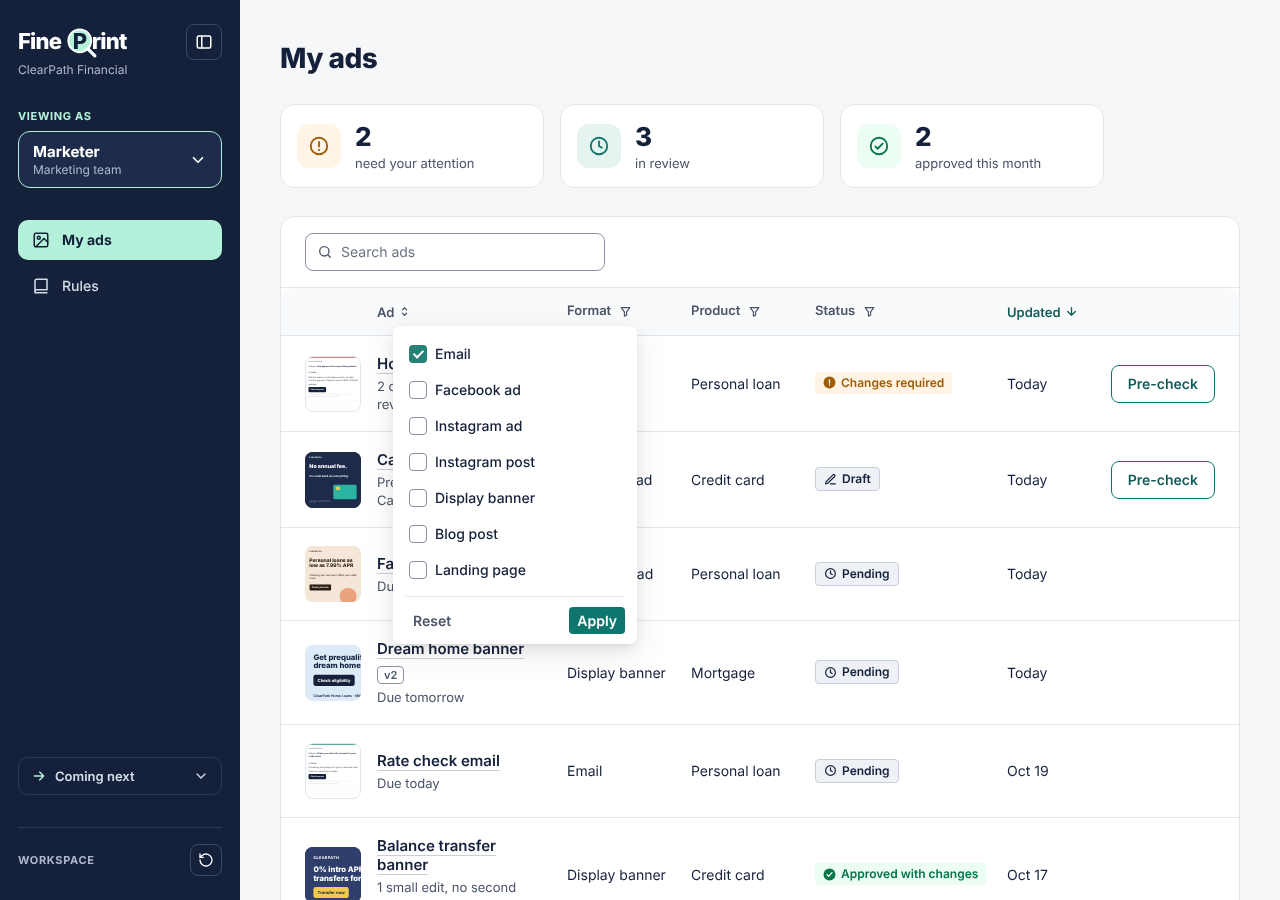
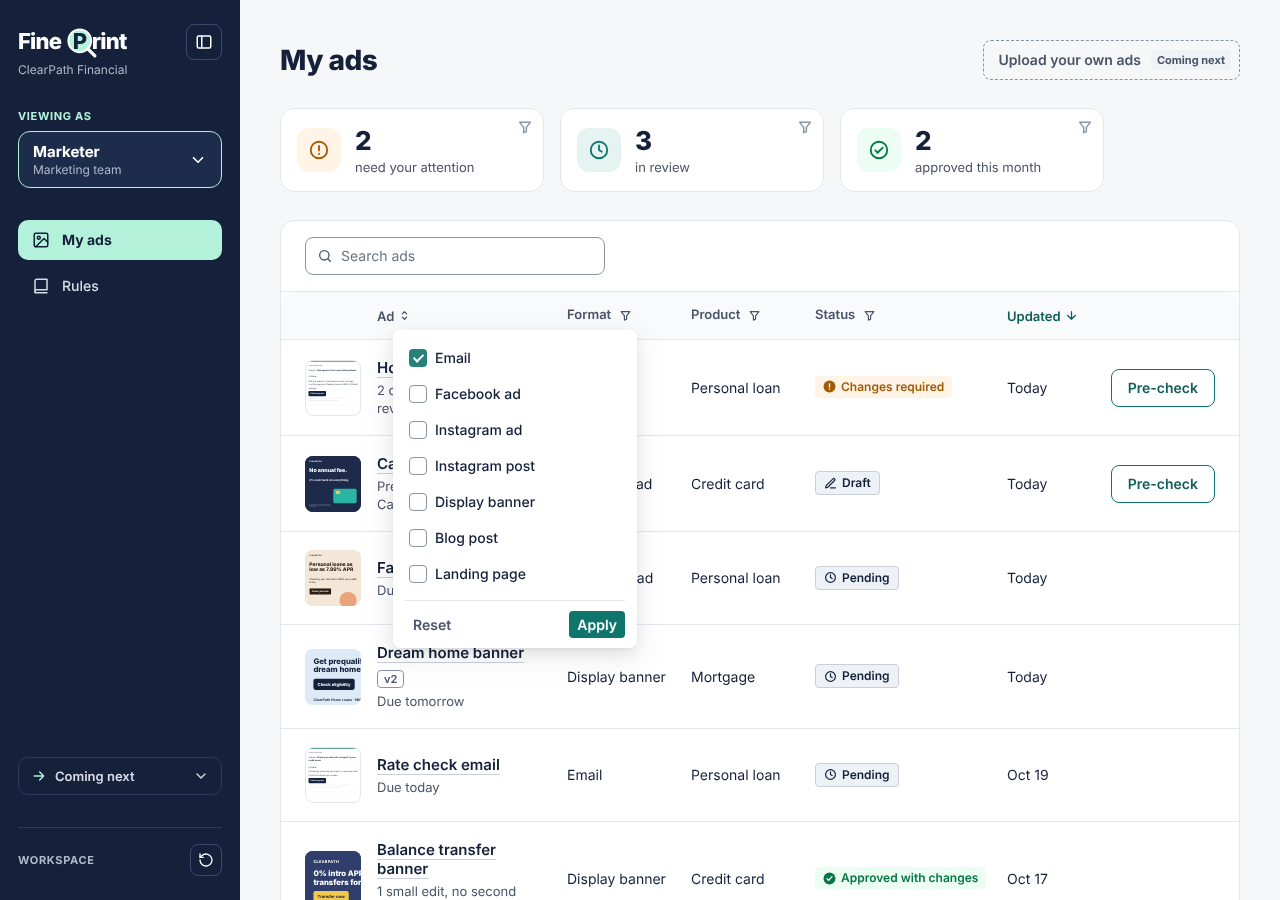
Coming next takes votes; Insights header; quieter active stat cards
- Each coming-next feature, in the sidebar and as a dashed "Coming
  next" button where it would live (My ads, Rules, History), opens a
  card: what it would do, I'd use this, and how many want it. One vote
  per feature per browser (anonymous cookie, deduped in the database);
  Reset keeps the votes.
- Insights: Open the Queue on the title line, bigger card titles, and
  time saved as a plain number of hours.
- Active stat cards no longer add a line (the table stays put); the
  funnel is a little bigger.

Claude-Session: https://claude.ai/code/session_01GajTyz92bBm6dN9cgoMqN2

diff --git a/src/components/ComingNext.tsx b/src/components/ComingNext.tsx
@@ -1,0 +1,106 @@
+import { Popover } from 'antd'
+import { useState, type ReactNode } from 'react'
+import { api } from '../lib/api'
+import { useApi } from '../lib/useApi'
+import { Icon } from './Icon'
+
+export type ComingFeature = 'doc-rules' | 'upload' | 'search'
+
+/** The roadmap: what each feature would do, in a line. */
+export const COMING_NEXT: Array<{ id: ComingFeature; title: string; what: string }> = [
+  {
+    id: 'doc-rules',
+    title: 'Turn compliance documents into rules',
+    what: 'Upload a policy or a regulator’s guidance, and Fine Print drafts the rules for a reviewer to approve.',
+  },
+  {
+    id: 'upload',
+    title: 'Upload your own ads',
+    what: 'Drop in an image or a PDF. Fine Print reads the words and checks them like any other ad.',
+  },
+  {
+    id: 'search',
+    title: 'Search past decisions',
+    what: 'Find how similar ads were decided before, and why, before you decide this one.',
+  },
+]
+
+interface VoteState {
+  votes: Record<ComingFeature, number>
+  voted: ComingFeature[]
+}
+
+function people(n: number): string {
+  return n === 1 ? '1 person wants this' : `${n} people want this`
+}
+
+/** What a coming-next feature would do, and a vote for it. Opened from the sidebar or where it would live. */
+function VoteCard({ feature }: { feature: ComingFeature }) {
+  const item = COMING_NEXT.find((f) => f.id === feature)!
+  const { data } = useApi<VoteState>('/api/votes')
+  const [mine, setMine] = useState<VoteState | null>(null)
+  const [saving, setSaving] = useState(false)
+  // The server knows this browser's votes (by an anonymous cookie), so a vote counts once.
+  const state = mine ?? data
+  const voted = Boolean(state?.voted.includes(feature))
+  const votes = state ? state.votes[feature] : null
+
+  const vote = async () => {
+    setSaving(true)
+    try {
+      setMine(await api.post<VoteState>('/api/votes', { feature }))
+    } finally {
+      setSaving(false)
+    }
+  }
+
+  return (
+    <div style={{ width: 280, display: 'flex', flexDirection: 'column', gap: 10 }}>
+      <span style={{ fontSize: 12, lineHeight: '16px', fontWeight: 700, letterSpacing: '0.04em', color: '#4A5468' }}>COMING NEXT</span>
+      <strong style={{ fontSize: 15, lineHeight: '22px' }}>{item.title}</strong>
+      <p style={{ margin: 0, fontSize: 14, lineHeight: '20px', color: '#4A5468' }}>{item.what}</p>
+      <div style={{ display: 'flex', alignItems: 'center', justifyContent: 'space-between', gap: 10, marginTop: 4 }}>
+        {voted ? (
+          <span style={{ display: 'inline-flex', alignItems: 'center', gap: 6, fontSize: 13, fontWeight: 600, color: '#067647' }}>
+            <Icon name="check" size={14} strokeWidth={2.5} />
+            Thanks, noted
+          </span>
+        ) : (
+          <button type="button" className="fp-copy-button" onClick={vote} disabled={saving}>
+            I’d use this
+          </button>
+        )}
+        {votes !== null && <span aria-live="polite" style={{ fontSize: 13, color: '#4A5468' }}>{people(votes)}</span>}
+      </div>
+    </div>
+  )
+}
+
+export function ComingNextPopover({
+  feature,
+  placement = 'bottomRight',
+  children,
+}: {
+  feature: ComingFeature
+  placement?: 'bottomRight' | 'right' | 'rightBottom'
+  children: ReactNode
+}) {
+  return (
+    <Popover trigger="click" placement={placement} content={<VoteCard feature={feature} />} destroyOnHidden>
+      {children}
+    </Popover>
+  )
+}
+
+/** Where the feature would live: a quiet button, clearly marked as coming next. */
+export function ComingNextButton({ feature }: { feature: ComingFeature }) {
+  const item = COMING_NEXT.find((f) => f.id === feature)!
+  return (
+    <ComingNextPopover feature={feature}>
+      <button type="button" className="fp-coming-door" aria-haspopup="dialog">
+        {item.title}
+        <span className="fp-coming-tag">Coming next</span>
+      </button>
+    </ComingNextPopover>
+  )
+}

diff --git a/src/pages/InsightsPage.tsx b/src/pages/InsightsPage.tsx
@@ -18,7 +18,6 @@ interface Metric {
 }
 
 interface Insights {
-  hero: { line: string } | null
   metrics: Metric[]
   issues: Array<{ rule_id: string; name: string; share: number }>
   affiliates: Array<{ source: string; score: number; ads: number; status: 'good' | 'watch' | 'at_risk' }>
@@ -57,7 +56,7 @@ function Sparkline({ series, label }: { series: Array<number | null>; label: str
 function MetricCard({ metric }: { metric: Metric }) {
   return (
     <section className="fp-card" aria-label={metric.label} style={{ padding: '24px 22px 22px', display: 'flex', flexDirection: 'column', gap: 8, minWidth: 0 }}>
-      <h2 style={{ margin: 0, fontSize: 13, lineHeight: '18px', fontWeight: 600, color: '#4A5468' }}>{metric.label}</h2>
+      <h2 style={{ margin: 0, fontSize: 17, lineHeight: '24px', fontWeight: 700 }}>{metric.label}</h2>
       <div style={{ display: 'flex', alignItems: 'center', flexWrap: 'wrap', gap: 10 }}>
         <span data-insight={metric.key} style={{ fontSize: 40, lineHeight: '48px', fontWeight: 800, letterSpacing: '-0.02em' }}>
           {metric.display}
@@ -72,42 +71,20 @@ function MetricCard({ metric }: { metric: Metric }) {
   )
 }
 
-/** One line of the throughput story, and the way into today's work. */
-function Hero({ hero, pending }: { hero: NonNullable<Insights['hero']>; pending: number | null }) {
-  return (
-    <section
-      aria-label="This week"
-      style={{
-        background: '#E6F4F1',
-        borderLeft: '4px solid #0F766E',
-        borderRadius: 12,
-        padding: '16px 20px 16px 24px',
-        display: 'flex',
-        flexWrap: 'wrap',
-        alignItems: 'center',
-        justifyContent: 'space-between',
-        gap: 16,
-      }}
-    >
-      <p data-insight="hero" style={{ margin: 0, fontSize: 18, lineHeight: '26px', fontWeight: 700 }}>
-        {hero.line}
-      </p>
-      <Link to="/queue" className="fp-hero-button">
-        Open the Queue{pending !== null ? ` · ${pending}` : ''}
-        <Icon name="arrowRight" size={16} strokeWidth={2.2} />
-      </Link>
-    </section>
-  )
-}
-
 export function InsightsPage() {
   const { data, error } = useApi<Insights>('/api/insights')
   const { pending } = useWorkspace()
   return (
     <div style={{ display: 'flex', flexDirection: 'column', gap: 28 }}>
-      <div style={{ display: 'flex', flexDirection: 'column', gap: 6 }}>
-        <h1 className="fp-page-title">Insights</h1>
-        <span style={{ fontSize: 14, lineHeight: '20px', color: '#4A5468' }}>Last 8 weeks</span>
+      <div style={{ display: 'flex', flexWrap: 'wrap', alignItems: 'center', justifyContent: 'space-between', gap: 16 }}>
+        <div style={{ display: 'flex', flexDirection: 'column', gap: 6 }}>
+          <h1 className="fp-page-title">Insights</h1>
+          <span style={{ fontSize: 14, lineHeight: '20px', color: '#4A5468' }}>Last 8 weeks</span>
+        </div>
+        <Link to="/queue" className="fp-hero-button">
+          Open the Queue{pending !== null ? ` · ${pending}` : ''}
+          <Icon name="arrowRight" size={16} strokeWidth={2.2} />
+        </Link>
       </div>
       {error ? (
         <p role="alert" style={{ margin: 0, fontSize: 15, color: '#4A5468' }}>
@@ -117,7 +94,6 @@ export function InsightsPage() {
         <Skeleton active paragraph={{ rows: 8 }} />
       ) : (
         <>
-          {data.hero && <Hero hero={data.hero} pending={pending} />}
           <div className="fp-insight-metrics">
             {data.metrics.map((metric) => (
               <MetricCard key={metric.key} metric={metric} />

diff --git a/e2e/coming-next.spec.ts b/e2e/coming-next.spec.ts
@@ -1,0 +1,33 @@
+import { expect, test } from '@playwright/test'
+import { setRole } from './helpers.ts'
+
+test.use({ viewport: { width: 1280, height: 900 } })
+
+test('coming-next features take a vote, once per browser, where they would live and in the sidebar', async ({ page }) => {
+  await setRole(page, 'marketer')
+  await page.goto('/my-ads')
+  await page.getByRole('button', { name: /^Upload your own ads/ }).click()
+  const card = page.locator('.ant-popover')
+  await expect(card.getByText('Drop in an image or a PDF.', { exact: false })).toBeVisible()
+  const before = Number((await card.getByText(/wants? this$/).innerText()).match(/\d+/)![0])
+  await card.getByRole('button', { name: 'I’d use this' }).click()
+  await expect(card.getByText('Thanks, noted')).toBeVisible()
+  await expect(card.getByText(/wants? this$/)).toHaveText(before + 1 === 1 ? '1 person wants this' : `${before + 1} people want this`)
+
+  // The same browser can't vote twice: after a reload it's still noted, from the server.
+  await page.reload()
+  await page.getByRole('button', { name: /^Upload your own ads/ }).click()
+  await expect(page.locator('.ant-popover').getByText('Thanks, noted')).toBeVisible()
+  await expect(page.locator('.ant-popover').getByRole('button', { name: 'I’d use this' })).toHaveCount(0)
+  await page.keyboard.press('Escape')
+
+  // The sidebar's roadmap opens the same card, and Rules and History have their own.
+  await page.getByRole('button', { name: 'Coming next', exact: true }).click()
+  await page.locator('#coming-next-list').getByRole('button', { name: 'Search past decisions' }).click()
+  await expect(page.locator('.ant-popover').getByText('Find how similar ads were decided before', { exact: false })).toBeVisible()
+  await page.goto('/rules')
+  await expect(page.getByRole('button', { name: /^Turn compliance documents into rules/ })).toBeVisible()
+  await setRole(page, 'reviewer')
+  await page.goto('/history')
+  await expect(page.getByRole('button', { name: /^Search past decisions/ })).toBeVisible()
+})

diff --git a/src/app/Sidebar.tsx b/src/app/Sidebar.tsx
@@ -1,6 +1,7 @@
 import { App as AntApp, Dropdown, Popconfirm, Tooltip } from 'antd'
 import { useState, type CSSProperties } from 'react'
 import { NavLink, useNavigate } from 'react-router-dom'
+import { COMING_NEXT, ComingNextPopover } from '../components/ComingNext'
 import { Icon, type IconName } from '../components/Icon'
 import { Logo } from '../components/Logo'
 import { api } from '../lib/api'
@@ -8,7 +9,6 @@ import { ROLE_LABEL } from '../lib/labels'
 import type { Role } from '../lib/types'
 import { useWorkspace } from './workspace'
 
-const COMING_NEXT = ['Turn compliance documents into rules', 'Upload your own ads', 'Search past decisions']
 
 interface NavItem {
   to: string
@@ -184,7 +184,13 @@ export function Sidebar({ collapsed, onToggle }: { collapsed: boolean; onToggle:
           {comingOpen && (
             <ul id="coming-next-list">
               {COMING_NEXT.map((item) => (
-                <li key={item}>{item}</li>
+                <li key={item.id}>
+                  <ComingNextPopover feature={item.id} placement="right">
+                    <button type="button" aria-haspopup="dialog">
+                      {item.title}
+                    </button>
+                  </ComingNextPopover>
+                </li>
               ))}
             </ul>
           )}

diff --git a/src/components/StatCards.tsx b/src/components/StatCards.tsx
@@ -88,7 +88,6 @@ export function StatCards({ stats, actions = {} }: { stats: Stat[]; actions?: Re
                 {stat.trend && <TrendBadge trend={stat.trend} inert={Boolean(action)} />}
               </span>{' '}
               <span style={{ fontSize: 13, lineHeight: '16px', color: '#4A5468' }}>{stat.label}</span>
-              {active && <span style={{ fontSize: 12, lineHeight: '16px', fontWeight: 600, color: '#115E59' }}>Showing only these</span>}
               {action && (
                 // The card's name is what it shows, plus what the badge and a click mean.
                 <span className="fp-visually-hidden">
@@ -100,7 +99,7 @@ export function StatCards({ stats, actions = {} }: { stats: Stat[]; actions?: Re
             {action && (
               // The same funnel as the table's column filters: this card filters the table.
               <span aria-hidden="true" className="fp-stat-funnel" style={{ color: active ? '#0F766E' : '#8A93A6' }}>
-                <Icon name="filter" size={14} strokeWidth={2.2} />
+                <Icon name="filter" size={16} strokeWidth={2.2} />
               </span>
             )}
           </>

diff --git a/src/index.css b/src/index.css
@@ -1028,3 +1028,49 @@ a.fp-pager:hover {
 .fp-stat-card:hover .fp-stat-funnel {
   color: var(--fp-primary) !important;
 }
+
+/* A feature that isn't built yet, where it would live: quiet, dashed, never teal. */
+.fp-coming-door {
+  display: inline-flex;
+  align-items: center;
+  gap: 10px;
+  min-height: 40px;
+  padding: 0 8px 0 14px;
+  font: inherit;
+  font-size: 14px;
+  font-weight: 600;
+  color: var(--fp-ink-muted);
+  background: transparent;
+  border: 1px dashed #8a93a6;
+  border-radius: 8px;
+  cursor: pointer;
+  white-space: nowrap;
+}
+.fp-coming-door:hover {
+  color: var(--fp-ink);
+  border-color: var(--fp-ink-muted);
+  background: #ffffff;
+}
+.fp-coming-tag {
+  font-size: 11px;
+  line-height: 16px;
+  font-weight: 700;
+  color: var(--fp-ink-muted);
+  background: #eef2f7;
+  border-radius: 4px;
+  padding: 2px 6px;
+}
+.fp-coming-next li button {
+  font: inherit;
+  color: inherit;
+  background: transparent;
+  border: none;
+  padding: 2px 0;
+  text-align: left;
+  cursor: pointer;
+  text-decoration: underline dotted;
+  text-underline-offset: 3px;
+}
+.fp-coming-next li button:hover {
+  color: #ffffff;
+}

diff --git a/src/components/AdTable.tsx b/src/components/AdTable.tsx
@@ -508,7 +508,7 @@ const STAT_ACTIONS: Record<TableView, Record<string, Partial<Filters>>> = {
   history: {},
 }
 
-export function TablePage({ title, view }: { title: string; view: TableView }) {
+export function TablePage({ title, view, action }: { title: string; view: TableView; action?: ReactNode }) {
   const [stats, setStats] = useState<Stat[] | null>(null)
   const [filters, setFilters] = useState<Filters>(NO_FILTERS)
   const [page, setPage] = useState(1)
@@ -527,7 +527,10 @@ export function TablePage({ title, view }: { title: string; view: TableView }) {
 
   return (
     <>
-      <h1 className="fp-page-title">{title}</h1>
+      <div style={{ display: 'flex', flexWrap: 'wrap', alignItems: 'center', justifyContent: 'space-between', gap: 16 }}>
+        <h1 className="fp-page-title">{title}</h1>
+        {action}
+      </div>
       {stats ? <StatCards stats={stats} actions={actions} /> : <div style={{ height: 84 }} aria-hidden="true" />}
       <AdTable view={view} onStats={setStats} filters={filters} onFilters={applyFilters} page={page} onPage={setPage} />
     </>

diff --git a/src/pages/RulesPage.tsx b/src/pages/RulesPage.tsx
@@ -1,6 +1,7 @@
 import { Skeleton } from 'antd'
 import type { CSSProperties } from 'react'
 import { useWorkspace } from '../app/workspace'
+import { ComingNextButton } from '../components/ComingNext'
 import { FilledIcon, Icon } from '../components/Icon'
 import { Tag } from '../components/StatusTag'
 import type { Rule } from '../lib/detail'
@@ -124,6 +125,7 @@ export function RulesPage() {
             Every ad is checked against these {rules?.length ?? ''} rules. Each suggestion names the rule it comes from.
           </p>
         </div>
+        <ComingNextButton feature="doc-rules" />
       </div>
 
       {!rules && <Skeleton active paragraph={{ rows: 12 }} />}

diff --git a/e2e/insights.spec.ts b/e2e/insights.spec.ts
@@ -18,6 +18,7 @@ test('Insights is the reviewer’s, and agrees with History', async ({ page }) =
   await expect(page.locator('[data-affiliate]').first()).toContainText('TotallyLegitLoans.biz')
   await expect(page.locator('[data-affiliate]').first()).toContainText('At risk')
   await page.screenshot({ path: 'screenshots/final/11-insights.png', fullPage: true })
+  await expect(page.getByRole('link', { name: /^Open the Queue · \d+$/ })).toBeVisible()
   await page.getByRole('link', { name: 'See all rules' }).click()
   await expect(page).toHaveURL(/\/rules$/)
 

diff --git a/e2e/shell.spec.ts b/e2e/shell.spec.ts
@@ -32,7 +32,7 @@ test('switching role sets the cookie, changes the nav and goes home', async ({ p
 
 test('coming next starts collapsed and lists the roadmap', async ({ page }) => {
   await page.goto('/queue')
-  const toggle = page.getByRole('button', { name: 'Coming next' })
+  const toggle = page.getByRole('button', { name: 'Coming next', exact: true })
   await expect(toggle).toHaveAttribute('aria-expanded', 'false')
   await toggle.click()
   await expect(page.locator('#coming-next-list li')).toHaveText([

diff --git a/src/pages/HistoryPage.tsx b/src/pages/HistoryPage.tsx
@@ -1,10 +1,11 @@
+import { ComingNextButton } from '../components/ComingNext'
 import { TablePage } from '../components/AdTable'
 import { ViewDrawer } from '../components/ViewDrawer'
 
 export function HistoryPage() {
   return (
     <>
-      <TablePage title="History" view="history" />
+      <TablePage title="History" view="history" action={<ComingNextButton feature="search" />} />
       <ViewDrawer />
     </>
   )

diff --git a/src/pages/MyAdsPage.tsx b/src/pages/MyAdsPage.tsx
@@ -1,10 +1,11 @@
+import { ComingNextButton } from '../components/ComingNext'
 import { TablePage } from '../components/AdTable'
 import { ViewDrawer } from '../components/ViewDrawer'
 
 export function MyAdsPage() {
   return (
     <>
-      <TablePage title="My ads" view="my-ads" />
+      <TablePage title="My ads" view="my-ads" action={<ComingNextButton feature="upload" />} />
       <ViewDrawer />
     </>
   )
